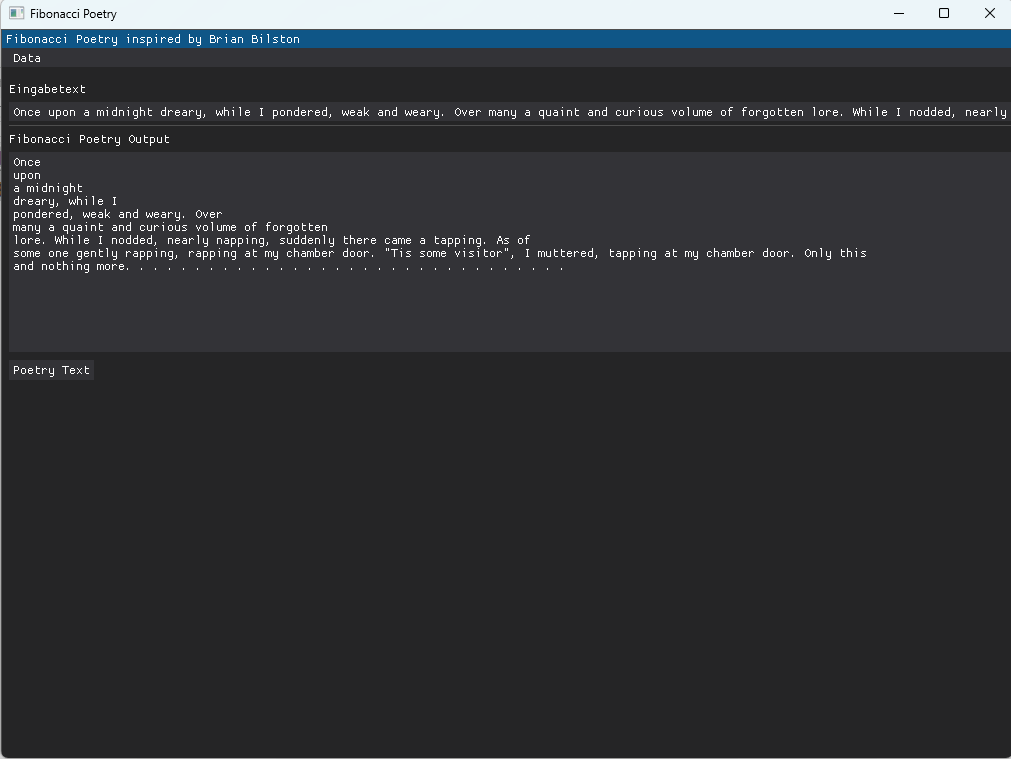
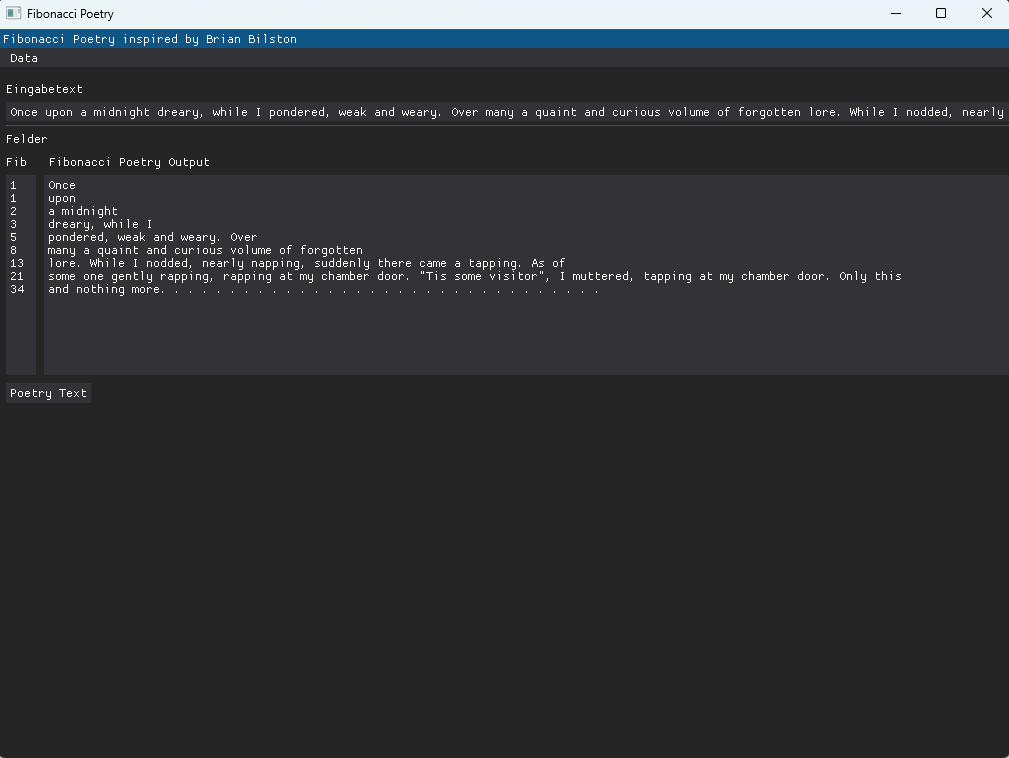
Screenshot und readme geändert

diff --git a/readme.md b/readme.md
@@ -86,7 +86,7 @@ git clone https://github.com/Noha1981/FibonacciPoetry.git
 
 ### Voraussetzungen
 
-- Python **3.10 oder neuer**
+- Python **3.9 oder neuer**
 
 Python kann von der offiziellen Website heruntergeladen werden:  
 https://www.python.org/downloads/
